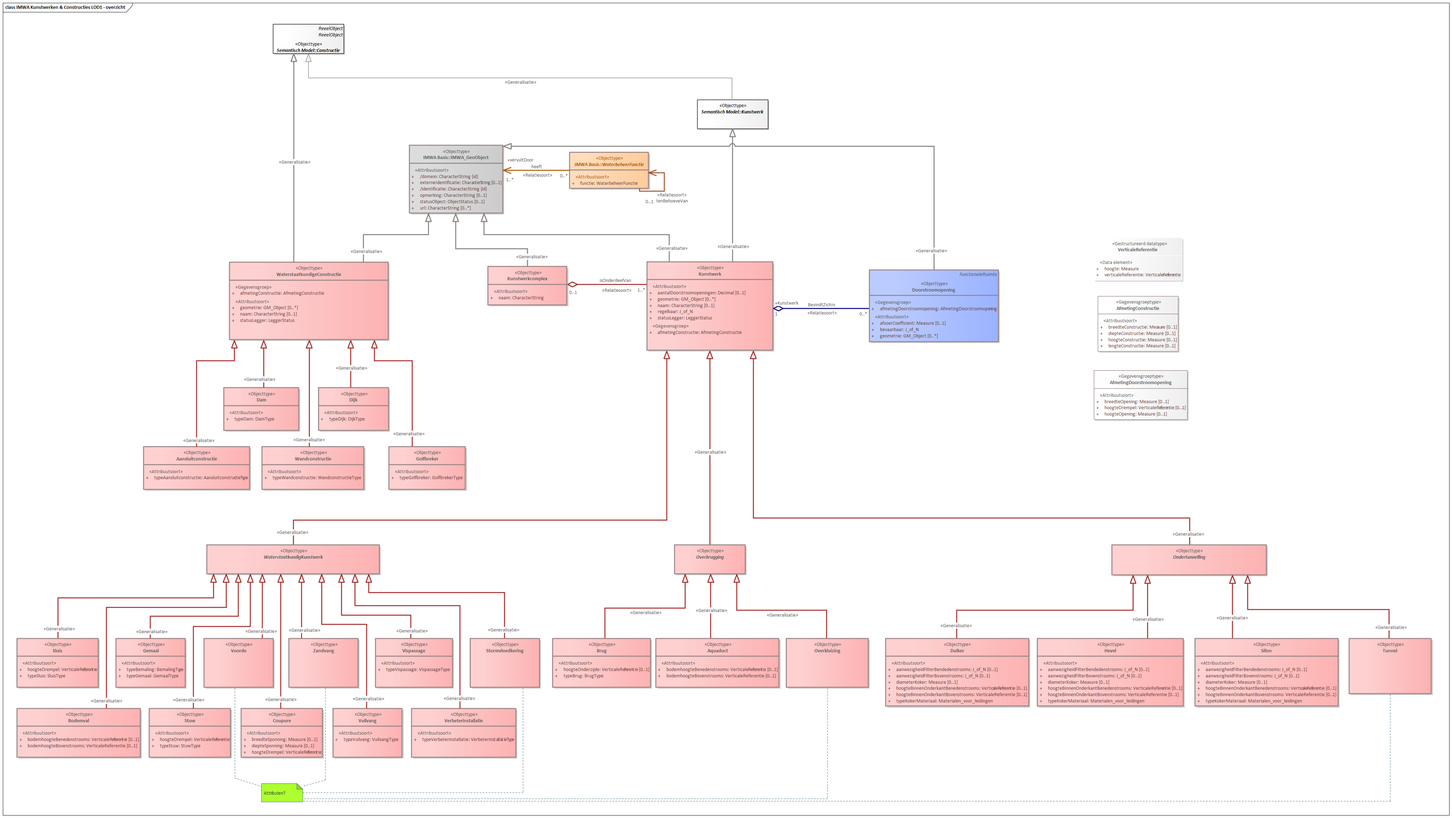
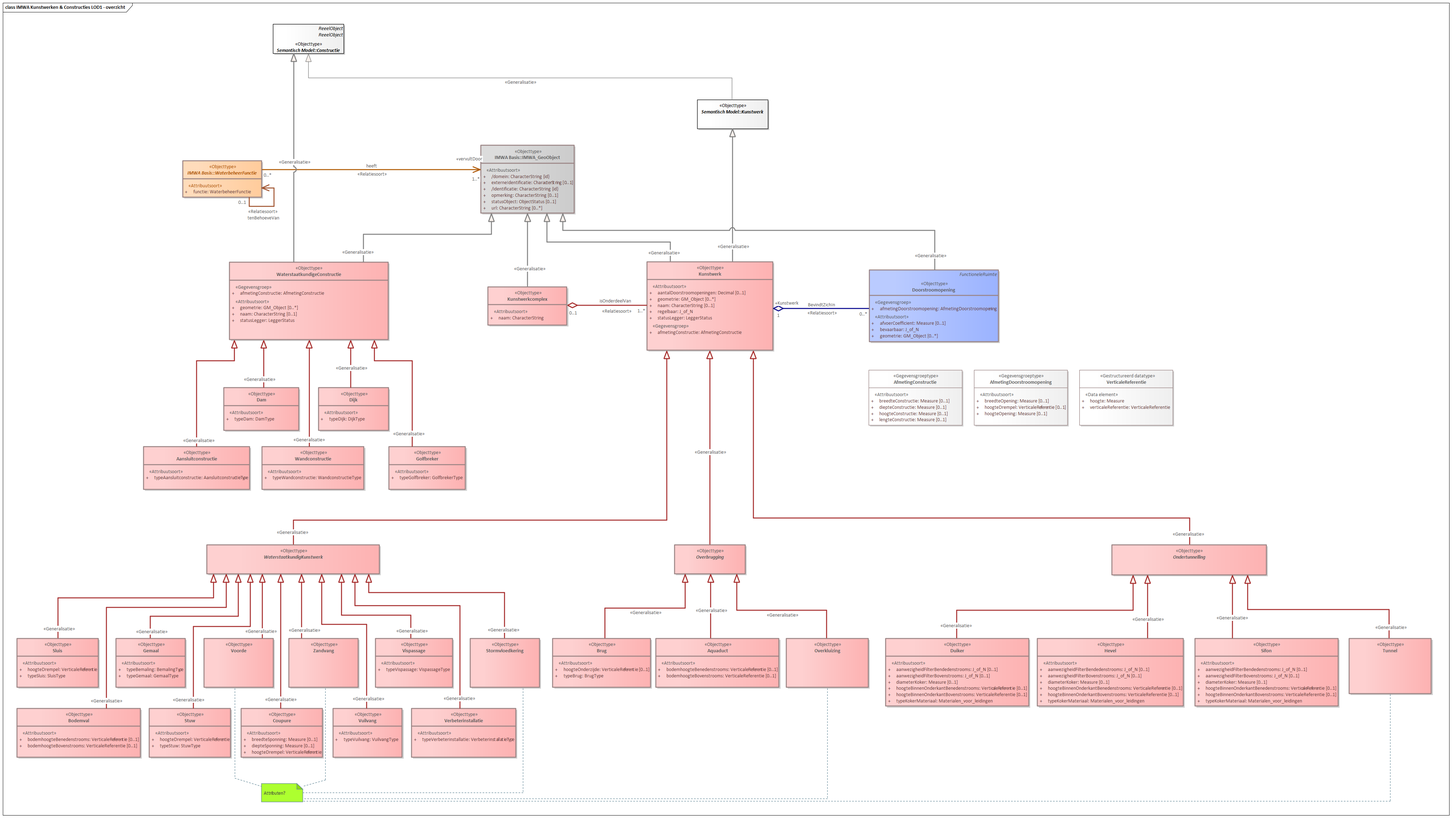
SIM-IMWA2024Kunstwerken-22.1-1-20231026-20231219-101910

diff --git a/data/IMWA-KW-cat.respec.full.html b/data/IMWA-KW-cat.respec.full.html
@@ -32,7 +32,7 @@
       </section>
       <section id="sotd">
          <p>
-            Deze documentatie van het conceptueel model is laatst bijgewerkt op December 15, 2023 at 09:59:05.
+            Deze documentatie van het conceptueel model is laatst bijgewerkt op December 19, 2023 at 10:19:31.
             </p>
       </section>
       <section id="prologue" class="informative" level="1">
@@ -44,12 +44,12 @@
       <section id="cat" class="normative">
          <h2>Gegevensdefinitie</h2>
          <p><b>Deze tekst is normatief.</b>
-            <!--SIM-IMWA2024Kunstwerken-22.1-1-20231026-20231215-095846 imvertor Nightly-build.13--></p>
+            <!--SIM-IMWA2024Kunstwerken-22.1-1-20231026-20231219-101910 imvertor Nightly-build.13--></p>
          <section id="global_package_KunstwerkenConstructies">
             <h3>Domein   Kunstwerken &amp; Constructies</h3>
-            <div class="imageinfo overview"><img src="data/Images/EAID_213362C7_D62D_4ac6_AD45_44339833EAC1.png" usemap="#imagemap-EAID_213362C7_D62D_4ac6_AD45_44339833EAC1" alt="Diagram &#xA;                        &#xA;                     "><map name="imagemap-EAID_213362C7_D62D_4ac6_AD45_44339833EAC1"><area shape="rect" alt="Aansluitconstructie" coords="355,1039,514,1133" href="#global_class_KunstwerkenConstructies_Aansluitconstructie"><area shape="rect" alt="Kunstwerkcomplex" coords="1076,677,1300,764" href="#global_class_KunstwerkenConstructies_Kunstwerkcomplex"><area shape="rect" alt="Doorstroomopening" coords="2035,659,2259,746" href="#global_class_KunstwerkenConstructies_Doorstroomopening"><area shape="rect" alt="Vispassage" coords="1576,1039,1734,1133" href="#global_class_KunstwerkenConstructies_Vispassage"><area shape="rect" alt="Verbeterinstallatie" coords="1457,1175,1615,1270" href="#global_class_KunstwerkenConstructies_Verbeterinstallatie"><area shape="rect" alt="Vuilvang" coords="1287,1175,1446,1270" href="#global_class_KunstwerkenConstructies_Vuilvang"><area shape="rect" alt="Stormvloedkering" coords="1626,1175,1785,1270" href="#global_class_KunstwerkenConstructies_Stormvloedkering"><area shape="rect" alt="Gemaal" coords="779,1175,938,1270" href="#global_class_KunstwerkenConstructies_Gemaal"><area shape="rect" alt="Overkluizing" coords="2173,1039,2332,1133" href="#global_class_KunstwerkenConstructies_Overkluizing"><area shape="rect" alt="Tunnel" coords="2881,1039,3039,1133" href="#global_class_KunstwerkenConstructies_Tunnel"><area shape="rect" alt="Coupure" coords="1118,1175,1276,1270" href="#global_class_KunstwerkenConstructies_Coupure"><area shape="rect" alt="Bodemval" coords="816,1039,974,1133" href="#global_class_KunstwerkenConstructies_Bodemval"><area shape="rect" alt="Voorde" coords="1386,1039,1544,1133" href="#global_class_KunstwerkenConstructies_Voorde"><area shape="rect" alt="Aquaduct" coords="1993,1039,2151,1133" href="#global_class_KunstwerkenConstructies_Aquaduct"><area shape="rect" alt="Stuw" coords="1006,1039,1164,1133" href="#global_class_KunstwerkenConstructies_Stuw"><area shape="rect" alt="Sifon" coords="2707,1039,2866,1133" href="#global_class_KunstwerkenConstructies_Sifon"><area shape="rect" alt="Hevel" coords="2534,1039,2692,1133" href="#global_class_KunstwerkenConstructies_Hevel"><area shape="rect" alt="Duiker" coords="2359,1039,2517,1133" href="#global_class_KunstwerkenConstructies_Duiker"><area shape="rect" alt="Zandvang" coords="1196,1039,1354,1133" href="#global_class_KunstwerkenConstructies_Zandvang"><area shape="rect" alt="Ondertunnelling" coords="2360,879,3039,961" href="#global_class_KunstwerkenConstructies_Ondertunnelling"><area shape="rect" alt="Brug" coords="1812,1039,1971,1133" href="#global_class_KunstwerkenConstructies_Brug"><area shape="rect" alt="WaterstaatkundigKunstwerk" coords="776,879,1785,961" href="#global_class_KunstwerkenConstructies_WaterstaatkundigKunstwerk"><area shape="rect" alt="Overbrugging" coords="1809,879,2332,961" href="#global_class_KunstwerkenConstructies_Overbrugging"><area shape="rect" alt="Sluis" coords="950,1175,1108,1270" href="#global_class_KunstwerkenConstructies_Sluis"><area shape="rect" alt="Kunstwerk" coords="1468,619,1826,764" href="#global_class_KunstwerkenConstructies_Kunstwerk"><area shape="rect" alt="WaterstaatkundigeConstructie" coords="53,877,605,959" href="#global_class_KunstwerkenConstructies_WaterstaatkundigeConstructie"><area shape="rect" alt="Golfbreker" coords="454,1174,612,1268" href="#global_class_KunstwerkenConstructies_Golfbreker"><area shape="rect" alt="Dijk" coords="254,1174,413,1268" href="#global_class_KunstwerkenConstructies_Dijk"><area shape="rect" alt="Wandconstructie" coords="53,1174,212,1268" href="#global_class_KunstwerkenConstructies_Wandconstructie"><area shape="rect" alt="Dam" coords="118,1048,276,1143" href="#global_class_KunstwerkenConstructies_Dam"></map><p><b>IMWA Kunstwerken &amp; Constructies LOD0 - overzicht</b></p>
+            <div class="imageinfo overview"><img src="data/Images/EAID_213362C7_D62D_4ac6_AD45_44339833EAC1.png" usemap="#imagemap-EAID_213362C7_D62D_4ac6_AD45_44339833EAC1" alt="Diagram &#xA;                        &#xA;                     "><map name="imagemap-EAID_213362C7_D62D_4ac6_AD45_44339833EAC1"><area shape="rect" alt="Aansluitconstructie" coords="355,1065,514,1159" href="#global_class_KunstwerkenConstructies_Aansluitconstructie"><area shape="rect" alt="Kunstwerkcomplex" coords="1076,675,1300,763" href="#global_class_KunstwerkenConstructies_Kunstwerkcomplex"><area shape="rect" alt="Doorstroomopening" coords="2035,685,2259,772" href="#global_class_KunstwerkenConstructies_Doorstroomopening"><area shape="rect" alt="Vispassage" coords="1576,1065,1734,1159" href="#global_class_KunstwerkenConstructies_Vispassage"><area shape="rect" alt="Verbeterinstallatie" coords="1457,1201,1615,1296" href="#global_class_KunstwerkenConstructies_Verbeterinstallatie"><area shape="rect" alt="Vuilvang" coords="1287,1201,1446,1296" href="#global_class_KunstwerkenConstructies_Vuilvang"><area shape="rect" alt="Stormvloedkering" coords="1626,1201,1785,1296" href="#global_class_KunstwerkenConstructies_Stormvloedkering"><area shape="rect" alt="Gemaal" coords="779,1201,938,1296" href="#global_class_KunstwerkenConstructies_Gemaal"><area shape="rect" alt="Overkluizing" coords="2173,1065,2332,1159" href="#global_class_KunstwerkenConstructies_Overkluizing"><area shape="rect" alt="Tunnel" coords="2881,1065,3039,1159" href="#global_class_KunstwerkenConstructies_Tunnel"><area shape="rect" alt="Coupure" coords="1118,1201,1276,1296" href="#global_class_KunstwerkenConstructies_Coupure"><area shape="rect" alt="Bodemval" coords="816,1065,974,1159" href="#global_class_KunstwerkenConstructies_Bodemval"><area shape="rect" alt="Voorde" coords="1386,1065,1544,1159" href="#global_class_KunstwerkenConstructies_Voorde"><area shape="rect" alt="Aquaduct" coords="1993,1065,2151,1159" href="#global_class_KunstwerkenConstructies_Aquaduct"><area shape="rect" alt="Stuw" coords="1006,1065,1164,1159" href="#global_class_KunstwerkenConstructies_Stuw"><area shape="rect" alt="Sifon" coords="2707,1065,2866,1159" href="#global_class_KunstwerkenConstructies_Sifon"><area shape="rect" alt="Hevel" coords="2534,1065,2692,1159" href="#global_class_KunstwerkenConstructies_Hevel"><area shape="rect" alt="Duiker" coords="2359,1065,2517,1159" href="#global_class_KunstwerkenConstructies_Duiker"><area shape="rect" alt="Zandvang" coords="1196,1065,1354,1159" href="#global_class_KunstwerkenConstructies_Zandvang"><area shape="rect" alt="Ondertunnelling" coords="2360,905,3039,987" href="#global_class_KunstwerkenConstructies_Ondertunnelling"><area shape="rect" alt="Brug" coords="1812,1065,1971,1159" href="#global_class_KunstwerkenConstructies_Brug"><area shape="rect" alt="WaterstaatkundigKunstwerk" coords="776,905,1785,987" href="#global_class_KunstwerkenConstructies_WaterstaatkundigKunstwerk"><area shape="rect" alt="Overbrugging" coords="1809,905,2332,987" href="#global_class_KunstwerkenConstructies_Overbrugging"><area shape="rect" alt="Sluis" coords="950,1201,1108,1296" href="#global_class_KunstwerkenConstructies_Sluis"><area shape="rect" alt="Kunstwerk" coords="1468,645,1826,790" href="#global_class_KunstwerkenConstructies_Kunstwerk"><area shape="rect" alt="WaterstaatkundigeConstructie" coords="53,903,605,985" href="#global_class_KunstwerkenConstructies_WaterstaatkundigeConstructie"><area shape="rect" alt="Golfbreker" coords="454,1200,612,1294" href="#global_class_KunstwerkenConstructies_Golfbreker"><area shape="rect" alt="Dijk" coords="254,1200,413,1294" href="#global_class_KunstwerkenConstructies_Dijk"><area shape="rect" alt="Wandconstructie" coords="53,1200,212,1294" href="#global_class_KunstwerkenConstructies_Wandconstructie"><area shape="rect" alt="Dam" coords="118,1074,276,1169" href="#global_class_KunstwerkenConstructies_Dam"></map><p><b>IMWA Kunstwerken &amp; Constructies LOD0 - overzicht</b></p>
             </div>
-            <div class="imageinfo overview"><img src="data/Images/EAID_708D0E0D_D16B_4aab_AD9E_EC33FC895A26.png" usemap="#imagemap-EAID_708D0E0D_D16B_4aab_AD9E_EC33FC895A26" alt="Diagram &#xA;                        &#xA;                     "><map name="imagemap-EAID_708D0E0D_D16B_4aab_AD9E_EC33FC895A26"><area shape="rect" alt="AfmetingDoorstroomopening" coords="3094,1048,3359,1188" href="#global_class_KunstwerkenConstructies_AfmetingDoorstroomopening"><area shape="rect" alt="AfmetingConstructie" coords="3105,838,3333,995" href="#global_class_KunstwerkenConstructies_AfmetingConstructie"><area shape="rect" alt="VerticaleReferentie" coords="3094,672,3344,794" href="#global_class_KunstwerkenConstructies_VerticaleReferentie"><area shape="rect" alt="Aansluitconstructie" coords="406,1264,707,1386" href="#global_class_KunstwerkenConstructies_Aansluitconstructie"><area shape="rect" alt="Kunstwerkcomplex" coords="1380,754,1604,864" href="#global_class_KunstwerkenConstructies_Kunstwerkcomplex"><area shape="rect" alt="Doorstroomopening" coords="2459,764,2825,968" href="#global_class_KunstwerkenConstructies_Doorstroomopening"><area shape="rect" alt="Vispassage" coords="1062,1807,1281,1946" href="#global_class_KunstwerkenConstructies_Vispassage"><area shape="rect" alt="Verbeterinstallatie" coords="1164,2005,1460,2144" href="#global_class_KunstwerkenConstructies_Verbeterinstallatie"><area shape="rect" alt="Vuilvang" coords="942,2005,1138,2144" href="#global_class_KunstwerkenConstructies_Vuilvang"><area shape="rect" alt="Stormvloedkering" coords="1330,1807,1527,1946" href="#global_class_KunstwerkenConstructies_Stormvloedkering"><area shape="rect" alt="Gemaal" coords="328,1807,525,1946" href="#global_class_KunstwerkenConstructies_Gemaal"><area shape="rect" alt="Overkluizing" coords="2224,1807,2457,1946" href="#global_class_KunstwerkenConstructies_Overkluizing"><area shape="rect" alt="Tunnel" coords="3816,1807,4049,1964" href="#global_class_KunstwerkenConstructies_Tunnel"><area shape="rect" alt="Coupure" coords="682,2005,913,2144" href="#global_class_KunstwerkenConstructies_Coupure"><area shape="rect" alt="Bodemval" coords="48,2005,398,2144" href="#global_class_KunstwerkenConstructies_Bodemval"><area shape="rect" alt="Voorde" coords="577,1807,774,1946" href="#global_class_KunstwerkenConstructies_Voorde"><area shape="rect" alt="Aquaduct" coords="1855,1807,2204,1946" href="#global_class_KunstwerkenConstructies_Aquaduct"><area shape="rect" alt="Stuw" coords="422,2005,653,2144" href="#global_class_KunstwerkenConstructies_Stuw"><area shape="rect" alt="Sifon" coords="3380,1807,3786,1999" href="#global_class_KunstwerkenConstructies_Sifon"><area shape="rect" alt="Hevel" coords="2934,1807,3348,1999" href="#global_class_KunstwerkenConstructies_Hevel"><area shape="rect" alt="Duiker" coords="2505,1807,2911,1999" href="#global_class_KunstwerkenConstructies_Duiker"><area shape="rect" alt="Zandvang" coords="817,1807,1014,1946" href="#global_class_KunstwerkenConstructies_Zandvang"><area shape="rect" alt="Ondertunnelling" coords="3145,1542,3583,1628" href="#global_class_KunstwerkenConstructies_Ondertunnelling"><area shape="rect" alt="Brug" coords="1563,1807,1841,1946" href="#global_class_KunstwerkenConstructies_Brug"><area shape="rect" alt="WaterstaatkundigKunstwerk" coords="585,1542,1074,1625" href="#global_class_KunstwerkenConstructies_WaterstaatkundigKunstwerk"><area shape="rect" alt="Overbrugging" coords="1908,1542,2109,1625" href="#global_class_KunstwerkenConstructies_Overbrugging"><area shape="rect" alt="Sluis" coords="48,1807,279,1946" href="#global_class_KunstwerkenConstructies_Sluis"><area shape="rect" alt="Kunstwerk" coords="1830,741,2187,992" href="#global_class_KunstwerkenConstructies_Kunstwerk"><area shape="rect" alt="WaterstaatkundigeConstructie" coords="649,742,1099,962" href="#global_class_KunstwerkenConstructies_WaterstaatkundigeConstructie"><area shape="rect" alt="Golfbreker" coords="1100,1264,1317,1386" href="#global_class_KunstwerkenConstructies_Golfbreker"><area shape="rect" alt="Dijk" coords="901,1097,1100,1219" href="#global_class_KunstwerkenConstructies_Dijk"><area shape="rect" alt="Wandconstructie" coords="741,1264,1030,1386" href="#global_class_KunstwerkenConstructies_Wandconstructie"><area shape="rect" alt="Dam" coords="633,1097,846,1219" href="#global_class_KunstwerkenConstructies_Dam"></map><p><b>IMWA Kunstwerken &amp; Constructies LOD1 - overzicht</b></p>
+            <div class="imageinfo overview"><img src="data/Images/EAID_708D0E0D_D16B_4aab_AD9E_EC33FC895A26.png" usemap="#imagemap-EAID_708D0E0D_D16B_4aab_AD9E_EC33FC895A26" alt="Diagram &#xA;                        &#xA;                     "><map name="imagemap-EAID_708D0E0D_D16B_4aab_AD9E_EC33FC895A26"><area shape="rect" alt="AfmetingDoorstroomopening" coords="2755,1047,3020,1204" href="#global_class_KunstwerkenConstructies_AfmetingDoorstroomopening"><area shape="rect" alt="AfmetingConstructie" coords="2457,1047,2722,1204" href="#global_class_KunstwerkenConstructies_AfmetingConstructie"><area shape="rect" alt="VerticaleReferentie" coords="3053,1047,3318,1204" href="#global_class_KunstwerkenConstructies_VerticaleReferentie"><area shape="rect" alt="Aansluitconstructie" coords="406,1264,707,1386" href="#global_class_KunstwerkenConstructies_Aansluitconstructie"><area shape="rect" alt="Kunstwerkcomplex" coords="1380,812,1604,921" href="#global_class_KunstwerkenConstructies_Kunstwerkcomplex"><area shape="rect" alt="Doorstroomopening" coords="2459,764,2825,968" href="#global_class_KunstwerkenConstructies_Doorstroomopening"><area shape="rect" alt="Vispassage" coords="1062,1807,1281,1946" href="#global_class_KunstwerkenConstructies_Vispassage"><area shape="rect" alt="Verbeterinstallatie" coords="1164,2005,1460,2144" href="#global_class_KunstwerkenConstructies_Verbeterinstallatie"><area shape="rect" alt="Vuilvang" coords="942,2005,1138,2144" href="#global_class_KunstwerkenConstructies_Vuilvang"><area shape="rect" alt="Stormvloedkering" coords="1330,1807,1527,1946" href="#global_class_KunstwerkenConstructies_Stormvloedkering"><area shape="rect" alt="Gemaal" coords="328,1807,525,1946" href="#global_class_KunstwerkenConstructies_Gemaal"><area shape="rect" alt="Overkluizing" coords="2224,1807,2457,1946" href="#global_class_KunstwerkenConstructies_Overkluizing"><area shape="rect" alt="Tunnel" coords="3816,1807,4049,1964" href="#global_class_KunstwerkenConstructies_Tunnel"><area shape="rect" alt="Coupure" coords="682,2005,913,2144" href="#global_class_KunstwerkenConstructies_Coupure"><area shape="rect" alt="Bodemval" coords="48,2005,398,2144" href="#global_class_KunstwerkenConstructies_Bodemval"><area shape="rect" alt="Voorde" coords="577,1807,774,1946" href="#global_class_KunstwerkenConstructies_Voorde"><area shape="rect" alt="Aquaduct" coords="1855,1807,2204,1946" href="#global_class_KunstwerkenConstructies_Aquaduct"><area shape="rect" alt="Stuw" coords="422,2005,653,2144" href="#global_class_KunstwerkenConstructies_Stuw"><area shape="rect" alt="Sifon" coords="3380,1807,3786,1999" href="#global_class_KunstwerkenConstructies_Sifon"><area shape="rect" alt="Hevel" coords="2934,1807,3348,1999" href="#global_class_KunstwerkenConstructies_Hevel"><area shape="rect" alt="Duiker" coords="2505,1807,2911,1999" href="#global_class_KunstwerkenConstructies_Duiker"><area shape="rect" alt="Zandvang" coords="817,1807,1014,1946" href="#global_class_KunstwerkenConstructies_Zandvang"><area shape="rect" alt="Ondertunnelling" coords="3145,1542,3583,1628" href="#global_class_KunstwerkenConstructies_Ondertunnelling"><area shape="rect" alt="Brug" coords="1563,1807,1841,1946" href="#global_class_KunstwerkenConstructies_Brug"><area shape="rect" alt="WaterstaatkundigKunstwerk" coords="585,1542,1074,1625" href="#global_class_KunstwerkenConstructies_WaterstaatkundigKunstwerk"><area shape="rect" alt="Overbrugging" coords="1908,1542,2109,1625" href="#global_class_KunstwerkenConstructies_Overbrugging"><area shape="rect" alt="Sluis" coords="48,1807,279,1946" href="#global_class_KunstwerkenConstructies_Sluis"><area shape="rect" alt="Kunstwerk" coords="1830,741,2187,992" href="#global_class_KunstwerkenConstructies_Kunstwerk"><area shape="rect" alt="WaterstaatkundigeConstructie" coords="649,742,1099,962" href="#global_class_KunstwerkenConstructies_WaterstaatkundigeConstructie"><area shape="rect" alt="Golfbreker" coords="1100,1264,1317,1386" href="#global_class_KunstwerkenConstructies_Golfbreker"><area shape="rect" alt="Dijk" coords="901,1097,1100,1219" href="#global_class_KunstwerkenConstructies_Dijk"><area shape="rect" alt="Wandconstructie" coords="741,1264,1030,1386" href="#global_class_KunstwerkenConstructies_Wandconstructie"><area shape="rect" alt="Dam" coords="633,1097,846,1219" href="#global_class_KunstwerkenConstructies_Dam"></map><p><b>IMWA Kunstwerken &amp; Constructies LOD1 - overzicht</b></p>
             </div>
             <section>
                <h4>Objecttypen   </h4>

diff --git a/data/IMWA-KW-cat.respec.html b/data/IMWA-KW-cat.respec.html
@@ -32,7 +32,7 @@
       </section>
       <section id="sotd">
          <p>
-            Deze documentatie van het conceptueel model is laatst bijgewerkt op December 15, 2023 at 09:59:06.
+            Deze documentatie van het conceptueel model is laatst bijgewerkt op December 19, 2023 at 10:19:31.
             </p>
       </section>
       <section id="prologue" class="informative" level="1">
@@ -44,12 +44,12 @@
       <section id="cat" class="normative">
          <h2>Gegevensdefinitie</h2>
          <p><b>Deze tekst is normatief.</b>
-            <!--SIM-IMWA2024Kunstwerken-22.1-1-20231026-20231215-095846 imvertor Nightly-build.13--></p>
+            <!--SIM-IMWA2024Kunstwerken-22.1-1-20231026-20231219-101910 imvertor Nightly-build.13--></p>
          <section id="global_package_KunstwerkenConstructies">
             <h3>Domein   Kunstwerken &amp; Constructies</h3>
-            <div class="imageinfo overview"><img src="data/Images/EAID_213362C7_D62D_4ac6_AD45_44339833EAC1.png" usemap="#imagemap-EAID_213362C7_D62D_4ac6_AD45_44339833EAC1" alt="Diagram &#xA;                        &#xA;                     "><map name="imagemap-EAID_213362C7_D62D_4ac6_AD45_44339833EAC1"><area shape="rect" alt="Aansluitconstructie" coords="355,1039,514,1133" href="#global_class_KunstwerkenConstructies_Aansluitconstructie"><area shape="rect" alt="Kunstwerkcomplex" coords="1076,677,1300,764" href="#global_class_KunstwerkenConstructies_Kunstwerkcomplex"><area shape="rect" alt="Doorstroomopening" coords="2035,659,2259,746" href="#global_class_KunstwerkenConstructies_Doorstroomopening"><area shape="rect" alt="Vispassage" coords="1576,1039,1734,1133" href="#global_class_KunstwerkenConstructies_Vispassage"><area shape="rect" alt="Verbeterinstallatie" coords="1457,1175,1615,1270" href="#global_class_KunstwerkenConstructies_Verbeterinstallatie"><area shape="rect" alt="Vuilvang" coords="1287,1175,1446,1270" href="#global_class_KunstwerkenConstructies_Vuilvang"><area shape="rect" alt="Stormvloedkering" coords="1626,1175,1785,1270" href="#global_class_KunstwerkenConstructies_Stormvloedkering"><area shape="rect" alt="Gemaal" coords="779,1175,938,1270" href="#global_class_KunstwerkenConstructies_Gemaal"><area shape="rect" alt="Overkluizing" coords="2173,1039,2332,1133" href="#global_class_KunstwerkenConstructies_Overkluizing"><area shape="rect" alt="Tunnel" coords="2881,1039,3039,1133" href="#global_class_KunstwerkenConstructies_Tunnel"><area shape="rect" alt="Coupure" coords="1118,1175,1276,1270" href="#global_class_KunstwerkenConstructies_Coupure"><area shape="rect" alt="Bodemval" coords="816,1039,974,1133" href="#global_class_KunstwerkenConstructies_Bodemval"><area shape="rect" alt="Voorde" coords="1386,1039,1544,1133" href="#global_class_KunstwerkenConstructies_Voorde"><area shape="rect" alt="Aquaduct" coords="1993,1039,2151,1133" href="#global_class_KunstwerkenConstructies_Aquaduct"><area shape="rect" alt="Stuw" coords="1006,1039,1164,1133" href="#global_class_KunstwerkenConstructies_Stuw"><area shape="rect" alt="Sifon" coords="2707,1039,2866,1133" href="#global_class_KunstwerkenConstructies_Sifon"><area shape="rect" alt="Hevel" coords="2534,1039,2692,1133" href="#global_class_KunstwerkenConstructies_Hevel"><area shape="rect" alt="Duiker" coords="2359,1039,2517,1133" href="#global_class_KunstwerkenConstructies_Duiker"><area shape="rect" alt="Zandvang" coords="1196,1039,1354,1133" href="#global_class_KunstwerkenConstructies_Zandvang"><area shape="rect" alt="Ondertunnelling" coords="2360,879,3039,961" href="#global_class_KunstwerkenConstructies_Ondertunnelling"><area shape="rect" alt="Brug" coords="1812,1039,1971,1133" href="#global_class_KunstwerkenConstructies_Brug"><area shape="rect" alt="WaterstaatkundigKunstwerk" coords="776,879,1785,961" href="#global_class_KunstwerkenConstructies_WaterstaatkundigKunstwerk"><area shape="rect" alt="Overbrugging" coords="1809,879,2332,961" href="#global_class_KunstwerkenConstructies_Overbrugging"><area shape="rect" alt="Sluis" coords="950,1175,1108,1270" href="#global_class_KunstwerkenConstructies_Sluis"><area shape="rect" alt="Kunstwerk" coords="1468,619,1826,764" href="#global_class_KunstwerkenConstructies_Kunstwerk"><area shape="rect" alt="WaterstaatkundigeConstructie" coords="53,877,605,959" href="#global_class_KunstwerkenConstructies_WaterstaatkundigeConstructie"><area shape="rect" alt="Golfbreker" coords="454,1174,612,1268" href="#global_class_KunstwerkenConstructies_Golfbreker"><area shape="rect" alt="Dijk" coords="254,1174,413,1268" href="#global_class_KunstwerkenConstructies_Dijk"><area shape="rect" alt="Wandconstructie" coords="53,1174,212,1268" href="#global_class_KunstwerkenConstructies_Wandconstructie"><area shape="rect" alt="Dam" coords="118,1048,276,1143" href="#global_class_KunstwerkenConstructies_Dam"></map><p><b>IMWA Kunstwerken &amp; Constructies LOD0 - overzicht</b></p>
+            <div class="imageinfo overview"><img src="data/Images/EAID_213362C7_D62D_4ac6_AD45_44339833EAC1.png" usemap="#imagemap-EAID_213362C7_D62D_4ac6_AD45_44339833EAC1" alt="Diagram &#xA;                        &#xA;                     "><map name="imagemap-EAID_213362C7_D62D_4ac6_AD45_44339833EAC1"><area shape="rect" alt="Aansluitconstructie" coords="355,1065,514,1159" href="#global_class_KunstwerkenConstructies_Aansluitconstructie"><area shape="rect" alt="Kunstwerkcomplex" coords="1076,675,1300,763" href="#global_class_KunstwerkenConstructies_Kunstwerkcomplex"><area shape="rect" alt="Doorstroomopening" coords="2035,685,2259,772" href="#global_class_KunstwerkenConstructies_Doorstroomopening"><area shape="rect" alt="Vispassage" coords="1576,1065,1734,1159" href="#global_class_KunstwerkenConstructies_Vispassage"><area shape="rect" alt="Verbeterinstallatie" coords="1457,1201,1615,1296" href="#global_class_KunstwerkenConstructies_Verbeterinstallatie"><area shape="rect" alt="Vuilvang" coords="1287,1201,1446,1296" href="#global_class_KunstwerkenConstructies_Vuilvang"><area shape="rect" alt="Stormvloedkering" coords="1626,1201,1785,1296" href="#global_class_KunstwerkenConstructies_Stormvloedkering"><area shape="rect" alt="Gemaal" coords="779,1201,938,1296" href="#global_class_KunstwerkenConstructies_Gemaal"><area shape="rect" alt="Overkluizing" coords="2173,1065,2332,1159" href="#global_class_KunstwerkenConstructies_Overkluizing"><area shape="rect" alt="Tunnel" coords="2881,1065,3039,1159" href="#global_class_KunstwerkenConstructies_Tunnel"><area shape="rect" alt="Coupure" coords="1118,1201,1276,1296" href="#global_class_KunstwerkenConstructies_Coupure"><area shape="rect" alt="Bodemval" coords="816,1065,974,1159" href="#global_class_KunstwerkenConstructies_Bodemval"><area shape="rect" alt="Voorde" coords="1386,1065,1544,1159" href="#global_class_KunstwerkenConstructies_Voorde"><area shape="rect" alt="Aquaduct" coords="1993,1065,2151,1159" href="#global_class_KunstwerkenConstructies_Aquaduct"><area shape="rect" alt="Stuw" coords="1006,1065,1164,1159" href="#global_class_KunstwerkenConstructies_Stuw"><area shape="rect" alt="Sifon" coords="2707,1065,2866,1159" href="#global_class_KunstwerkenConstructies_Sifon"><area shape="rect" alt="Hevel" coords="2534,1065,2692,1159" href="#global_class_KunstwerkenConstructies_Hevel"><area shape="rect" alt="Duiker" coords="2359,1065,2517,1159" href="#global_class_KunstwerkenConstructies_Duiker"><area shape="rect" alt="Zandvang" coords="1196,1065,1354,1159" href="#global_class_KunstwerkenConstructies_Zandvang"><area shape="rect" alt="Ondertunnelling" coords="2360,905,3039,987" href="#global_class_KunstwerkenConstructies_Ondertunnelling"><area shape="rect" alt="Brug" coords="1812,1065,1971,1159" href="#global_class_KunstwerkenConstructies_Brug"><area shape="rect" alt="WaterstaatkundigKunstwerk" coords="776,905,1785,987" href="#global_class_KunstwerkenConstructies_WaterstaatkundigKunstwerk"><area shape="rect" alt="Overbrugging" coords="1809,905,2332,987" href="#global_class_KunstwerkenConstructies_Overbrugging"><area shape="rect" alt="Sluis" coords="950,1201,1108,1296" href="#global_class_KunstwerkenConstructies_Sluis"><area shape="rect" alt="Kunstwerk" coords="1468,645,1826,790" href="#global_class_KunstwerkenConstructies_Kunstwerk"><area shape="rect" alt="WaterstaatkundigeConstructie" coords="53,903,605,985" href="#global_class_KunstwerkenConstructies_WaterstaatkundigeConstructie"><area shape="rect" alt="Golfbreker" coords="454,1200,612,1294" href="#global_class_KunstwerkenConstructies_Golfbreker"><area shape="rect" alt="Dijk" coords="254,1200,413,1294" href="#global_class_KunstwerkenConstructies_Dijk"><area shape="rect" alt="Wandconstructie" coords="53,1200,212,1294" href="#global_class_KunstwerkenConstructies_Wandconstructie"><area shape="rect" alt="Dam" coords="118,1074,276,1169" href="#global_class_KunstwerkenConstructies_Dam"></map><p><b>IMWA Kunstwerken &amp; Constructies LOD0 - overzicht</b></p>
             </div>
-            <div class="imageinfo overview"><img src="data/Images/EAID_708D0E0D_D16B_4aab_AD9E_EC33FC895A26.png" usemap="#imagemap-EAID_708D0E0D_D16B_4aab_AD9E_EC33FC895A26" alt="Diagram &#xA;                        &#xA;                     "><map name="imagemap-EAID_708D0E0D_D16B_4aab_AD9E_EC33FC895A26"><area shape="rect" alt="AfmetingDoorstroomopening" coords="3094,1048,3359,1188" href="#global_class_KunstwerkenConstructies_AfmetingDoorstroomopening"><area shape="rect" alt="AfmetingConstructie" coords="3105,838,3333,995" href="#global_class_KunstwerkenConstructies_AfmetingConstructie"><area shape="rect" alt="VerticaleReferentie" coords="3094,672,3344,794" href="#global_class_KunstwerkenConstructies_VerticaleReferentie"><area shape="rect" alt="Aansluitconstructie" coords="406,1264,707,1386" href="#global_class_KunstwerkenConstructies_Aansluitconstructie"><area shape="rect" alt="Kunstwerkcomplex" coords="1380,754,1604,864" href="#global_class_KunstwerkenConstructies_Kunstwerkcomplex"><area shape="rect" alt="Doorstroomopening" coords="2459,764,2825,968" href="#global_class_KunstwerkenConstructies_Doorstroomopening"><area shape="rect" alt="Vispassage" coords="1062,1807,1281,1946" href="#global_class_KunstwerkenConstructies_Vispassage"><area shape="rect" alt="Verbeterinstallatie" coords="1164,2005,1460,2144" href="#global_class_KunstwerkenConstructies_Verbeterinstallatie"><area shape="rect" alt="Vuilvang" coords="942,2005,1138,2144" href="#global_class_KunstwerkenConstructies_Vuilvang"><area shape="rect" alt="Stormvloedkering" coords="1330,1807,1527,1946" href="#global_class_KunstwerkenConstructies_Stormvloedkering"><area shape="rect" alt="Gemaal" coords="328,1807,525,1946" href="#global_class_KunstwerkenConstructies_Gemaal"><area shape="rect" alt="Overkluizing" coords="2224,1807,2457,1946" href="#global_class_KunstwerkenConstructies_Overkluizing"><area shape="rect" alt="Tunnel" coords="3816,1807,4049,1964" href="#global_class_KunstwerkenConstructies_Tunnel"><area shape="rect" alt="Coupure" coords="682,2005,913,2144" href="#global_class_KunstwerkenConstructies_Coupure"><area shape="rect" alt="Bodemval" coords="48,2005,398,2144" href="#global_class_KunstwerkenConstructies_Bodemval"><area shape="rect" alt="Voorde" coords="577,1807,774,1946" href="#global_class_KunstwerkenConstructies_Voorde"><area shape="rect" alt="Aquaduct" coords="1855,1807,2204,1946" href="#global_class_KunstwerkenConstructies_Aquaduct"><area shape="rect" alt="Stuw" coords="422,2005,653,2144" href="#global_class_KunstwerkenConstructies_Stuw"><area shape="rect" alt="Sifon" coords="3380,1807,3786,1999" href="#global_class_KunstwerkenConstructies_Sifon"><area shape="rect" alt="Hevel" coords="2934,1807,3348,1999" href="#global_class_KunstwerkenConstructies_Hevel"><area shape="rect" alt="Duiker" coords="2505,1807,2911,1999" href="#global_class_KunstwerkenConstructies_Duiker"><area shape="rect" alt="Zandvang" coords="817,1807,1014,1946" href="#global_class_KunstwerkenConstructies_Zandvang"><area shape="rect" alt="Ondertunnelling" coords="3145,1542,3583,1628" href="#global_class_KunstwerkenConstructies_Ondertunnelling"><area shape="rect" alt="Brug" coords="1563,1807,1841,1946" href="#global_class_KunstwerkenConstructies_Brug"><area shape="rect" alt="WaterstaatkundigKunstwerk" coords="585,1542,1074,1625" href="#global_class_KunstwerkenConstructies_WaterstaatkundigKunstwerk"><area shape="rect" alt="Overbrugging" coords="1908,1542,2109,1625" href="#global_class_KunstwerkenConstructies_Overbrugging"><area shape="rect" alt="Sluis" coords="48,1807,279,1946" href="#global_class_KunstwerkenConstructies_Sluis"><area shape="rect" alt="Kunstwerk" coords="1830,741,2187,992" href="#global_class_KunstwerkenConstructies_Kunstwerk"><area shape="rect" alt="WaterstaatkundigeConstructie" coords="649,742,1099,962" href="#global_class_KunstwerkenConstructies_WaterstaatkundigeConstructie"><area shape="rect" alt="Golfbreker" coords="1100,1264,1317,1386" href="#global_class_KunstwerkenConstructies_Golfbreker"><area shape="rect" alt="Dijk" coords="901,1097,1100,1219" href="#global_class_KunstwerkenConstructies_Dijk"><area shape="rect" alt="Wandconstructie" coords="741,1264,1030,1386" href="#global_class_KunstwerkenConstructies_Wandconstructie"><area shape="rect" alt="Dam" coords="633,1097,846,1219" href="#global_class_KunstwerkenConstructies_Dam"></map><p><b>IMWA Kunstwerken &amp; Constructies LOD1 - overzicht</b></p>
+            <div class="imageinfo overview"><img src="data/Images/EAID_708D0E0D_D16B_4aab_AD9E_EC33FC895A26.png" usemap="#imagemap-EAID_708D0E0D_D16B_4aab_AD9E_EC33FC895A26" alt="Diagram &#xA;                        &#xA;                     "><map name="imagemap-EAID_708D0E0D_D16B_4aab_AD9E_EC33FC895A26"><area shape="rect" alt="AfmetingDoorstroomopening" coords="2755,1047,3020,1204" href="#global_class_KunstwerkenConstructies_AfmetingDoorstroomopening"><area shape="rect" alt="AfmetingConstructie" coords="2457,1047,2722,1204" href="#global_class_KunstwerkenConstructies_AfmetingConstructie"><area shape="rect" alt="VerticaleReferentie" coords="3053,1047,3318,1204" href="#global_class_KunstwerkenConstructies_VerticaleReferentie"><area shape="rect" alt="Aansluitconstructie" coords="406,1264,707,1386" href="#global_class_KunstwerkenConstructies_Aansluitconstructie"><area shape="rect" alt="Kunstwerkcomplex" coords="1380,812,1604,921" href="#global_class_KunstwerkenConstructies_Kunstwerkcomplex"><area shape="rect" alt="Doorstroomopening" coords="2459,764,2825,968" href="#global_class_KunstwerkenConstructies_Doorstroomopening"><area shape="rect" alt="Vispassage" coords="1062,1807,1281,1946" href="#global_class_KunstwerkenConstructies_Vispassage"><area shape="rect" alt="Verbeterinstallatie" coords="1164,2005,1460,2144" href="#global_class_KunstwerkenConstructies_Verbeterinstallatie"><area shape="rect" alt="Vuilvang" coords="942,2005,1138,2144" href="#global_class_KunstwerkenConstructies_Vuilvang"><area shape="rect" alt="Stormvloedkering" coords="1330,1807,1527,1946" href="#global_class_KunstwerkenConstructies_Stormvloedkering"><area shape="rect" alt="Gemaal" coords="328,1807,525,1946" href="#global_class_KunstwerkenConstructies_Gemaal"><area shape="rect" alt="Overkluizing" coords="2224,1807,2457,1946" href="#global_class_KunstwerkenConstructies_Overkluizing"><area shape="rect" alt="Tunnel" coords="3816,1807,4049,1964" href="#global_class_KunstwerkenConstructies_Tunnel"><area shape="rect" alt="Coupure" coords="682,2005,913,2144" href="#global_class_KunstwerkenConstructies_Coupure"><area shape="rect" alt="Bodemval" coords="48,2005,398,2144" href="#global_class_KunstwerkenConstructies_Bodemval"><area shape="rect" alt="Voorde" coords="577,1807,774,1946" href="#global_class_KunstwerkenConstructies_Voorde"><area shape="rect" alt="Aquaduct" coords="1855,1807,2204,1946" href="#global_class_KunstwerkenConstructies_Aquaduct"><area shape="rect" alt="Stuw" coords="422,2005,653,2144" href="#global_class_KunstwerkenConstructies_Stuw"><area shape="rect" alt="Sifon" coords="3380,1807,3786,1999" href="#global_class_KunstwerkenConstructies_Sifon"><area shape="rect" alt="Hevel" coords="2934,1807,3348,1999" href="#global_class_KunstwerkenConstructies_Hevel"><area shape="rect" alt="Duiker" coords="2505,1807,2911,1999" href="#global_class_KunstwerkenConstructies_Duiker"><area shape="rect" alt="Zandvang" coords="817,1807,1014,1946" href="#global_class_KunstwerkenConstructies_Zandvang"><area shape="rect" alt="Ondertunnelling" coords="3145,1542,3583,1628" href="#global_class_KunstwerkenConstructies_Ondertunnelling"><area shape="rect" alt="Brug" coords="1563,1807,1841,1946" href="#global_class_KunstwerkenConstructies_Brug"><area shape="rect" alt="WaterstaatkundigKunstwerk" coords="585,1542,1074,1625" href="#global_class_KunstwerkenConstructies_WaterstaatkundigKunstwerk"><area shape="rect" alt="Overbrugging" coords="1908,1542,2109,1625" href="#global_class_KunstwerkenConstructies_Overbrugging"><area shape="rect" alt="Sluis" coords="48,1807,279,1946" href="#global_class_KunstwerkenConstructies_Sluis"><area shape="rect" alt="Kunstwerk" coords="1830,741,2187,992" href="#global_class_KunstwerkenConstructies_Kunstwerk"><area shape="rect" alt="WaterstaatkundigeConstructie" coords="649,742,1099,962" href="#global_class_KunstwerkenConstructies_WaterstaatkundigeConstructie"><area shape="rect" alt="Golfbreker" coords="1100,1264,1317,1386" href="#global_class_KunstwerkenConstructies_Golfbreker"><area shape="rect" alt="Dijk" coords="901,1097,1100,1219" href="#global_class_KunstwerkenConstructies_Dijk"><area shape="rect" alt="Wandconstructie" coords="741,1264,1030,1386" href="#global_class_KunstwerkenConstructies_Wandconstructie"><area shape="rect" alt="Dam" coords="633,1097,846,1219" href="#global_class_KunstwerkenConstructies_Dam"></map><p><b>IMWA Kunstwerken &amp; Constructies LOD1 - overzicht</b></p>
             </div>
             <section>
                <h4>Objecttypen   </h4>
